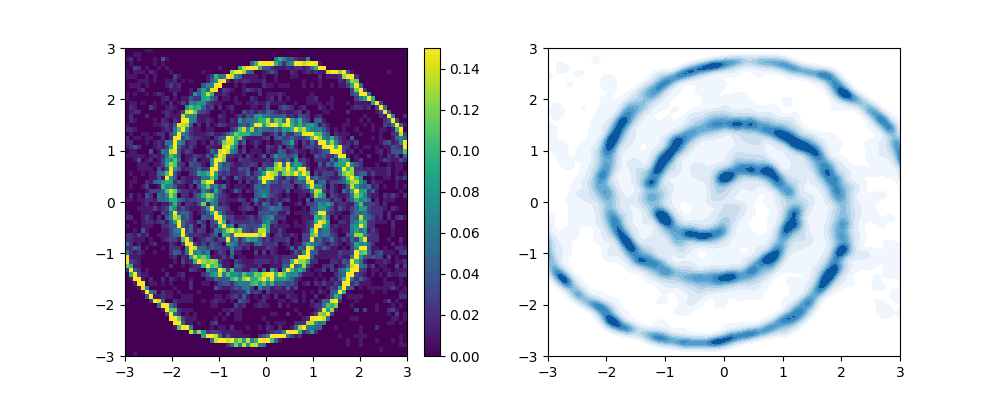
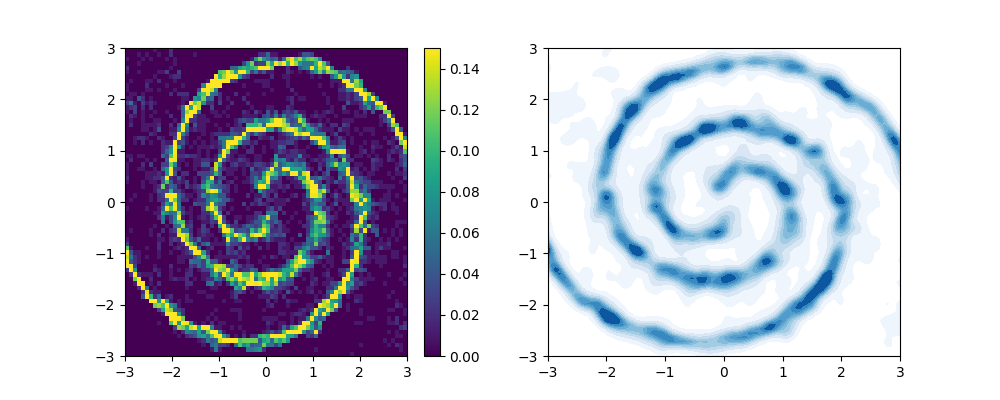
generic commit

diff --git a/scripts/transport/cflow_transport.py b/scripts/transport/cflow_transport.py
@@ -319,15 +319,15 @@ def cond_kernel_transport(X_mu, Y_mu, Y_eta, params, n_iter = 10001, Y_approx = 
                           Y_eta_test = [], X_mu_test = [],Y_mu_test = [], Y_approx_test = [], iters = 0):
     transport_params = {'X_mu': X_mu, 'Y_mu': Y_mu, 'Y_eta': Y_eta, 'reg_lambda': 1e-5, 'Y_approx': Y_approx,
                         'fit_kernel_params': deepcopy(params['mmd']), 'mmd_kernel_params': deepcopy(params['fit']),
-                        'print_freq': 100, 'learning_rate': .002, 'nugget': 1e-4, 'Y_eta_test': Y_eta_test,
+                        'print_freq': 100, 'learning_rate': .005, 'nugget': 1e-4, 'Y_eta_test': Y_eta_test,
                         'X_mu_test': X_mu_test, 'Y_mu_test': Y_mu_test, 'Y_approx_test': Y_approx_test, 'iters': iters}
     ctransport_kernel = CondTransportKernel(transport_params)
     train_kernel(ctransport_kernel, n_iter)
     return ctransport_kernel
 
 
-def comp_cond_kernel_transport(X_mu, Y_mu, Y_eta, params, n_iter = 1001, Y_approx = [],
-                               Y_eta_test = [], X_mu_test = [],Y_mu_test = [], Y_approx_test = [], n = 100):
+def comp_cond_kernel_transport(X_mu, Y_mu, Y_eta, params, n_iter = 1001, n = 150, Y_approx = [],
+                               Y_eta_test = [], X_mu_test = [],Y_mu_test = [], Y_approx_test = []):
     model_params = {'fit_kernel': [], 'Lambda': [], 'X': []}
     iters = 0
     for i in range(n):
@@ -359,8 +359,7 @@ def zero_pad(array):
 
 
 def train_cond_transport(ref_gen, target_gen, params, N = 1000, n_iter = 1001, process_funcs = [],
-                         cond_model_trainer = cond_kernel_transport, idx_dict = {}):
-
+                         cond_model_trainer = cond_kernel_transport, idx_dict = {},  n_transports = 150):
     ref_sample = ref_gen(N)
     target_sample = target_gen(N)
 
@@ -388,7 +387,7 @@ def train_cond_transport(ref_gen, target_gen, params, N = 1000, n_iter = 1001, p
         Y_eta_test = test_sample[:, ref_idx_tensors[i]]
 
         trained_models.append(cond_model_trainer(X_mu, Y_mu, Y_eta, params, n_iter, Y_eta_test = Y_eta_test,
-                                                 Y_mu_test = Y_mu_test, X_mu_test = X_mu_test))
+                                                 Y_mu_test = Y_mu_test, X_mu_test = X_mu_test, n = n_transports))
     return trained_models
 
 
@@ -427,7 +426,7 @@ def sode_hist(trajectories, savedir, save_name = 'traj_hist', n = 4):
 def conditional_transport_exp(ref_gen, target_gen, N = 1000, n_iter = 1001, vmax = None,
                            exp_name= 'exp', plt_range = None,  process_funcs = [],
                            cond_model_trainer= comp_cond_kernel_transport,idx_dict = {},
-                           skip_idx = 0, plot_idx = [], plots_hists = False):
+                           skip_idx = 0, plot_idx = [], plots_hists = False, n_transports = 150):
      save_dir = f'../../data/kernel_transport/{exp_name}'
      try:
          os.mkdir(save_dir)
@@ -452,7 +451,8 @@ def conditional_transport_exp(ref_gen, target_gen, N = 1000, n_iter = 1001, vmax
      idx_dict = {key: val[skip_idx:] for key, val in idx_dict.items()}
 
      trained_models = train_cond_transport(ref_gen, target_gen, exp_params, N, n_iter,
-                                           process_funcs, cond_model_trainer, idx_dict = idx_dict)
+                                           process_funcs, cond_model_trainer,
+                                           idx_dict = idx_dict, n_transports = n_transports)
      N_test = min(10 * N, 15000)
      target_sample = target_gen(N_test)
      ref_sample = ref_gen(N_test)
@@ -483,7 +483,7 @@ def conditional_transport_exp(ref_gen, target_gen, N = 1000, n_iter = 1001, vmax
 
 
 def two_d_exp(ref_gen, target_gen, N, n_iter=1001, plt_range=None, process_funcs=[],
-              slice_vals=[], slice_range=None, exp_name='exp', skip_idx=0, vmax=None):
+              slice_vals=[], slice_range=None, exp_name='exp', skip_idx=0, vmax=None, n_transports = 200):
     save_dir = f'../../data/kernel_transport/{exp_name}'
     try:
         os.mkdir(save_dir)
@@ -493,7 +493,7 @@ def two_d_exp(ref_gen, target_gen, N, n_iter=1001, plt_range=None, process_funcs
     slice_vals = np.asarray(slice_vals)
     plot_idx = torch.tensor([0, 1]).long()
     trained_models, idx_dict = conditional_transport_exp(ref_gen, target_gen, N=N, n_iter=n_iter, vmax=vmax,
-                                                         exp_name=exp_name, plt_range=plt_range,
+                                                         exp_name=exp_name, plt_range=plt_range, n_transports = n_transports,
                                                          plot_idx=plot_idx, process_funcs=process_funcs, skip_idx=skip_idx)
     N_test = min(10 * N, 15000)
     for slice_val in slice_vals:
@@ -598,7 +598,7 @@ def vl_exp(N=10000, n_iter=10000, Yd=18, normal=True, exp_name='vl_exp'):
 
 def run():
 
-    two_d_exp(sample_normal, sample_spirals, N=5000, n_iter=101, plt_range=[[-3, 3], [-3, 3]],
+    two_d_exp(sample_normal, sample_spirals, N=5000, n_iter=101, plt_range=[[-3, 3], [-3, 3]],n_transports = 200,
               slice_vals=[0], slice_range=[-3, 3], exp_name='spiral_composed3', skip_idx=1, vmax=.15)
 
     '''
